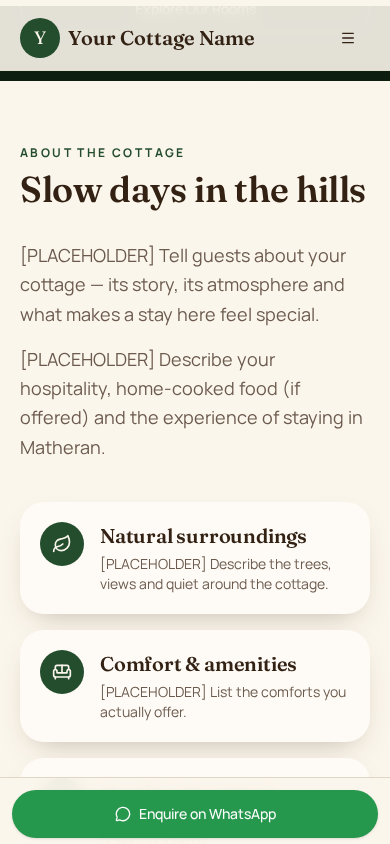
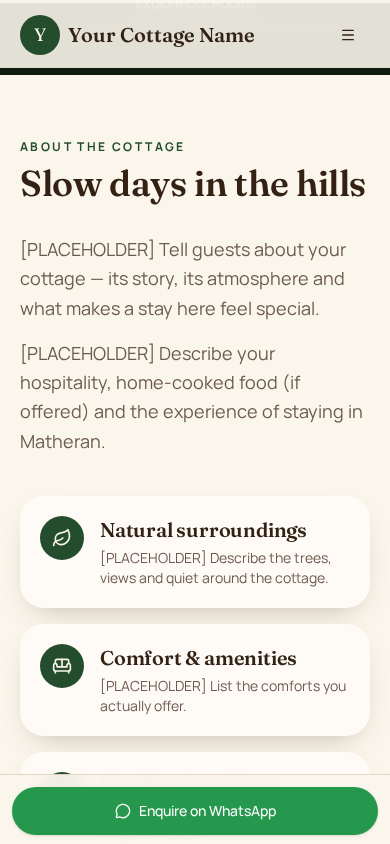
Changes

diff --git a/src/styles.css b/src/styles.css
@@ -69,30 +69,30 @@
 
 :root {
   --radius: 1rem;
-  --background: oklch(0.975 0.014 85);
-  --foreground: oklch(0.27 0.035 60);
-  --card: oklch(0.99 0.008 85);
-  --card-foreground: oklch(0.27 0.035 60);
-  --popover: oklch(0.99 0.008 85);
-  --popover-foreground: oklch(0.27 0.035 60);
-  --primary: oklch(0.38 0.07 150);
-  --primary-foreground: oklch(0.975 0.014 85);
-  --secondary: oklch(0.92 0.03 80);
-  --secondary-foreground: oklch(0.3 0.04 60);
-  --muted: oklch(0.94 0.02 82);
-  --muted-foreground: oklch(0.48 0.03 60);
-  --accent: oklch(0.62 0.12 45);
-  --accent-foreground: oklch(0.98 0.01 85);
+  --background: oklch(0.965 0.022 78);
+  --foreground: oklch(0.24 0.04 155);
+  --card: oklch(0.985 0.012 80);
+  --card-foreground: oklch(0.24 0.04 155);
+  --popover: oklch(0.985 0.012 80);
+  --popover-foreground: oklch(0.24 0.04 155);
+  --primary: oklch(0.52 0.15 38);
+  --primary-foreground: oklch(0.98 0.012 80);
+  --secondary: oklch(0.9 0.045 120);
+  --secondary-foreground: oklch(0.26 0.05 155);
+  --muted: oklch(0.93 0.03 85);
+  --muted-foreground: oklch(0.44 0.04 150);
+  --accent: oklch(0.76 0.14 75);
+  --accent-foreground: oklch(0.24 0.04 155);
   --destructive: oklch(0.577 0.245 27.325);
   --destructive-foreground: oklch(0.98 0.01 85);
-  --border: oklch(0.88 0.025 80);
-  --input: oklch(0.88 0.025 80);
-  --ring: oklch(0.38 0.07 150);
+  --border: oklch(0.86 0.04 95);
+  --input: oklch(0.86 0.04 95);
+  --ring: oklch(0.52 0.15 38);
   --whatsapp: oklch(0.6 0.15 150);
   --whatsapp-foreground: oklch(0.99 0 0);
-  --forest-deep: oklch(0.25 0.045 150);
-  --overlay: linear-gradient(180deg, oklch(0.2 0.03 150 / 0.15), oklch(0.2 0.03 150 / 0.7));
-  --shadow-soft: 0 12px 30px -14px oklch(0.3 0.05 60 / 0.35);
+  --forest-deep: oklch(0.26 0.06 160);
+  --overlay: linear-gradient(180deg, oklch(0.26 0.06 160 / 0.2), oklch(0.22 0.06 160 / 0.85));
+  --shadow-soft: 0 18px 40px -18px oklch(0.3 0.08 160 / 0.4);
   --chart-1: oklch(0.646 0.222 41.116);
   --chart-2: oklch(0.6 0.118 184.704);
   --chart-3: oklch(0.398 0.07 227.392);
